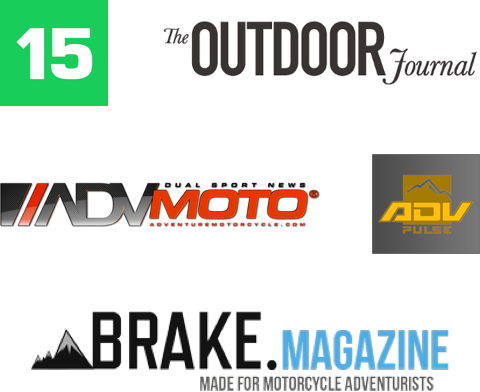
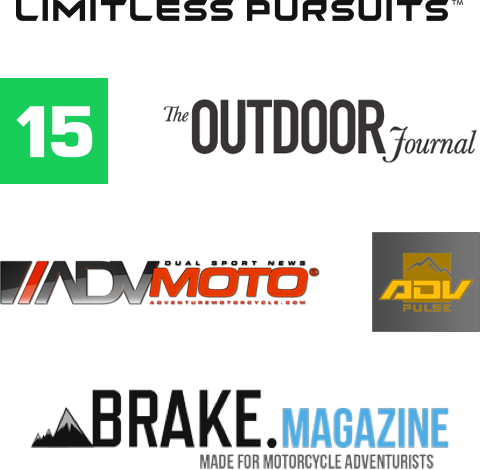
Add Limitless Pursuits to partners list

diff --git a/_scss/components/_partners.scss b/_scss/components/_partners.scss
@@ -13,11 +13,11 @@
 
 .partners__logos {
   width: 240px;
-  height: 196px;
+  height: 235px;
   margin: 0 auto;
   position: relative;
   background: url(/images/partners.png) 0 0 no-repeat;
-  background-size: contain;
+  background-size: cover;
 }
 
 .partners__link {
@@ -25,31 +25,39 @@
   height: 54px;
 
   &:nth-child(1) {
-    width: 54px;
+    height: 11px;
     top: 0;
-    left: 0;
+    left: 8px;
+    right: 8px;
   }
 
   &:nth-child(2) {
-    width: 160px;
-    right: 0;
+    width: 54px;
+    top: 39px;
+    left: 0;
   }
 
   &:nth-child(3) {
     width: 160px;
-    left: 0;
-    top: 74px;
+    top: 39px;
+    right: 0;
   }
 
   &:nth-child(4) {
-    width: 54px;
-    right: 0;
-    top: 74px;
+    width: 160px;
+    left: 0;
+    top: 113px;
   }
 
   &:nth-child(5) {
+    width: 54px;
+    right: 0;
+    top: 113px;
+  }
+
+  &:nth-child(6) {
     left: 16px;
     right: 16px;
-    top: 152px;
+    top: 191px;
   }
 }

diff --git a/pages/index.html b/pages/index.html
@@ -36,6 +36,7 @@ permalink: /home.html
               {{ keys.partners.body }}
             </p>
             <figure class="partners__logos">
+              <a class="partners__link" href="https://limitlesspursuits.com/adventure-parent/adventure/karolis-mieliauskas-epic-motorcycle-challenge-across-the-worlds-deepest-lake/"></a>
               <a class="partners__link" href="https://www.15min.lt/gazas/naujiena/gatve/uzsalusi-baikala-motociklu-iveikes-lietuvis-buvau-pasiruoses-viskam-221-774310"></a>
               <a class="partners__link" href="https://www.outdoorjournal.com/adventure-travel/motorcycle-meditation-riding-across-an-ice-covered-lake-baikal/"></a>
               <a class="partners__link" href="https://adventuremotorcycle.com/rides/riding-lake-baikal-ride-report"></a>
